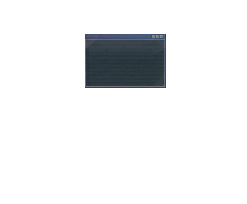
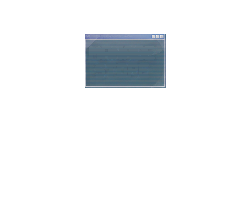
Make the computer light grey with a brighter screen, near the register's size
The user's computer art is recoloured from yellowed beige to a light cool grey, its screen is
lightened, and each layer is smoothed down to about 89x73 at the screen's resolution.

Changed region(s): [[0.3401, 0.1471, 0.6802, 0.4412]]

diff --git a/src/art/computer.ts b/src/art/computer.ts
@@ -1,19 +1,24 @@
 import Phaser from 'phaser';
+import { L } from '../layout';
 
 /**
- * The shop computer, cut from the user's art at its exact pixels and shown at half a game pixel per art pixel,
- * like the register. It comes in layers, all the same size and stacked at the same corner, so each part can be
+ * The shop computer, cut from the user's art at its exact pixels, recoloured from yellowed beige to light grey with
+ * a brighter screen, and smoothed down to about the register's size. It comes in layers, all the same size and stacked at the same corner, so each part can be
  * animated: the body, the desktop on the screen, the window, the window's words, and the power light. The body
  * holds a dimmed light for when the light layer is hidden. Stacked, the layers are the user's art exactly.
  */
 const ART_W = 247;
 const ART_H = 204;
-const SCALE = 0.5;
+/** Game pixels per art pixel: close to the register's size. */
+const SCALE = 0.36;
 const g = (v: number) => v * SCALE;
 
 export const COMPUTER_LAYERS = ['body', 'desktop', 'window', 'words', 'led'] as const;
 type Layer = (typeof COMPUTER_LAYERS)[number];
-export const computerKey = (layer: Layer) => `computer_${layer}`;
+/** The art as loaded, at its own pixels. */
+export const computerSource = (layer: Layer) => `computer_${layer}`;
+/** The art smoothed to its size on screen. */
+const computerKey = (layer: Layer) => `computer_${layer}_shown`;
 
 /** Where the computer's parts sit, in game pixels from its top-left corner. */
 export const COMPUTER = {
@@ -24,6 +29,25 @@ export const COMPUTER = {
   window: { x: g(85), y: g(34), w: g(81), h: g(54) },
   led: { x: g(161), y: g(113), w: g(9), h: g(6) },
 };
+
+/**
+ * Draws every layer at the screen's own resolution, smoothed, so it stays clean at a size that isn't a whole
+ * number of art pixels. Every layer gets the same scaling, so they still line up exactly.
+ */
+export function createComputer(scene: Phaser.Scene): void {
+  const r = L.renderScale;
+  for (const layer of COMPUTER_LAYERS) {
+    const key = computerKey(layer);
+    if (scene.textures.exists(key)) scene.textures.remove(key);
+    const tex = scene.textures.createCanvas(key, Math.round(ART_W * SCALE * r), Math.round(ART_H * SCALE * r))!;
+    const c = tex.getContext();
+    c.imageSmoothingEnabled = true;
+    c.imageSmoothingQuality = 'high';
+    c.drawImage(scene.textures.get(computerSource(layer)).getSourceImage() as HTMLImageElement, 0, 0, tex.width, tex.height);
+    tex.refresh();
+    tex.setFilter(Phaser.Textures.FilterMode.LINEAR);
+  }
+}
 
 export interface ComputerParts {
   container: Phaser.GameObjects.Container;
@@ -37,7 +61,7 @@ export interface ComputerParts {
 /** Puts the computer together at (x, y), with each part kept so it can be animated. */
 export function addComputer(scene: Phaser.Scene, x: number, y: number): ComputerParts {
   const [body, desktop, window, words, led] = COMPUTER_LAYERS.map((layer) =>
-    scene.add.image(0, 0, computerKey(layer)).setOrigin(0).setScale(SCALE),
+    scene.add.image(0, 0, computerKey(layer)).setOrigin(0).setScale(1 / L.renderScale),
   );
   const container = scene.add.container(x, y, [body, desktop, window, words, led]);
   return { container, body, desktop, window, words, led };

diff --git a/src/scenes/BootScene.ts b/src/scenes/BootScene.ts
@@ -1,7 +1,7 @@
 import Phaser from 'phaser';
 import { BILL_CENTS, billSource, createBills } from '../art/bills';
 import { createGameFont, loadGameFont } from '../art/font';
-import { COMPUTER_LAYERS, computerKey } from '../art/computer';
+import { COMPUTER_LAYERS, computerSource, createComputer } from '../art/computer';
 import { CUSTOMER_LOOKS, createTextures } from '../art/textures';
 
 const MONEY_ART = [5, 10, 25, 50].map((c) => `coin_${c}`);
@@ -13,7 +13,7 @@ export class BootScene extends Phaser.Scene {
 
   preload() {
     for (const scene of ['beach', 'beach_dusk', 'beach_night']) this.load.image(scene, `${scene}.png`);
-    for (const art of ['register', 'register_paper', 'sign', 'sign_star_on', 'sign_star_off', 'choco_group', 'item_soda', 'item_chips', 'item_choco', 'item_noodle', ...COMPUTER_LAYERS.map(computerKey)]) {
+    for (const art of ['register', 'register_paper', 'sign', 'sign_star_on', 'sign_star_off', 'choco_group', 'item_soda', 'item_chips', 'item_choco', 'item_noodle', ...COMPUTER_LAYERS.map(computerSource)]) {
       this.load.image(art, `shop/${art}.png`);
     }
     for (const art of MONEY_ART) this.load.image(art, `money/${art}.png`);
@@ -28,6 +28,7 @@ export class BootScene extends Phaser.Scene {
       for (const art of MONEY_ART) this.textures.get(art).setFilter(Phaser.Textures.FilterMode.LINEAR);
       createTextures(this);
       createBills(this);
+      createComputer(this);
       this.scene.start('Shack');
     });
   }

diff --git a/src/scenes/ShackScene.ts b/src/scenes/ShackScene.ts
@@ -96,7 +96,7 @@ const SHELF_NOTE = 'REPAIR THESE SHELVES FOR\nMORE SPACE. SELECT UPGRADES\nON TH
 const SHELF_NOTE_MS = 4000;
 const COMPUTER_W = COMPUTER.w;
 /** The keyboard's front edge sits a little above the counter's bottom. */
-const computerTop = () => L.counterBottom - 5 - COMPUTER.h;
+const computerTop = () => Math.round(L.counterBottom - 5 - COMPUTER.h);
 const MONITOR_CENTRE_X = COMPUTER.monitorCentreX;
 const shelfIsEmpty = (id: string) => session.state.shelves.find((s) => s.id === id)?.qty === 0;
 const GUIDE_TEXT: Record<OnboardingStep, string> = {
